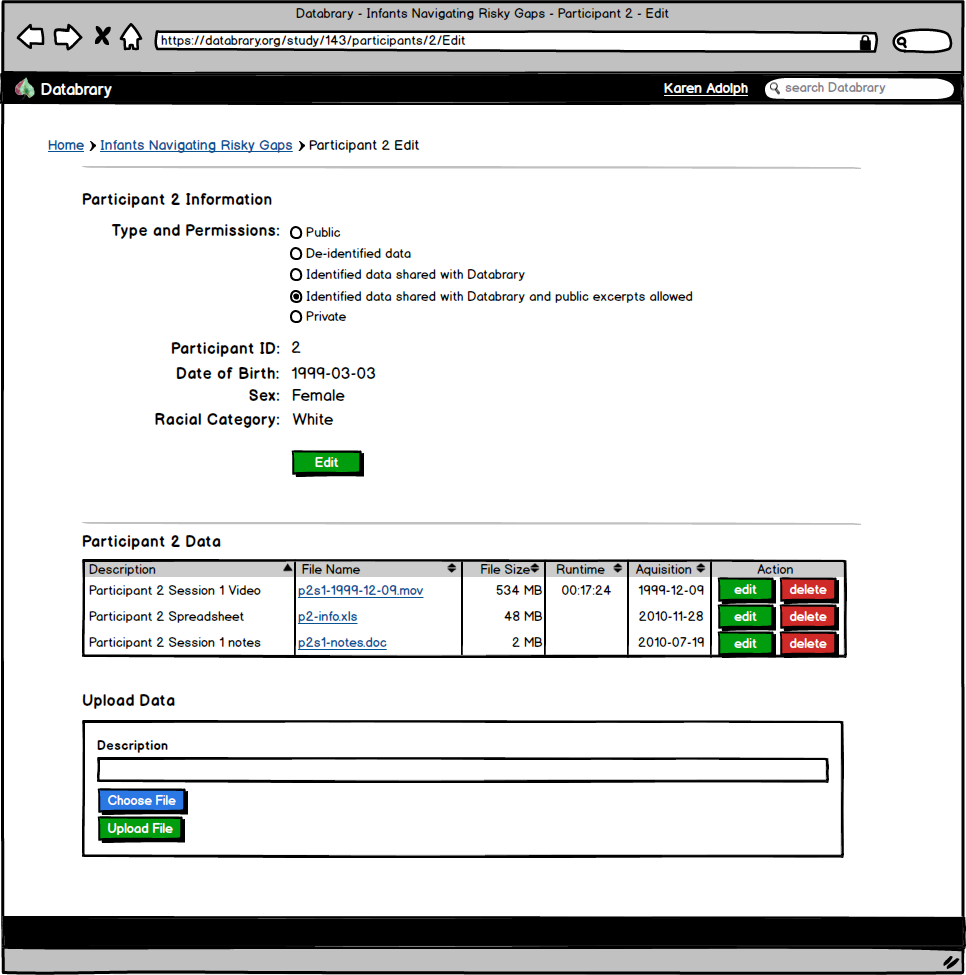
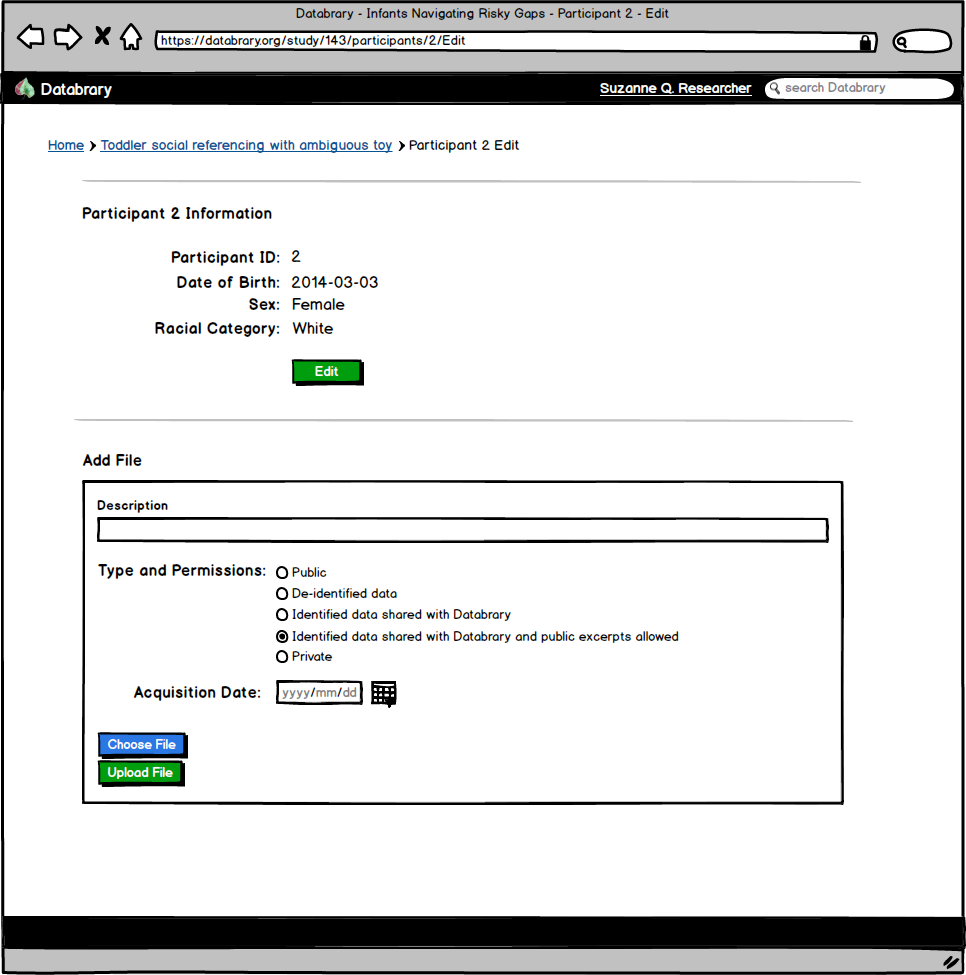
updated upload page

diff --git a/wireframe-presentation.md b/wireframe-presentation.md
@@ -75,7 +75,7 @@ UPDATED: Study page (Public View)
 - [x]: reduce # video file to 1 each participant, data files to 2
 - [x]: change to "Download citation in this format: "
 - [x] we can drop these and focus on authorized view if these are hard to maintain separately : 
-- [ ] probably documents/data will be links but since we don't have pages for them don't bother
+- [x] probably documents/data will be links but since we don't have pages for them don't bother
 
 UPDATED: Study page (Authorized View)
 
@@ -144,7 +144,7 @@ NEEDS UPDATES : Dashboard (post login)
 - search
 - user authorization
 - [image: investigator dashboard](./investigator-dashboard.png)
-- [ ]: please provide links to stills. following link above I found two images that might be useful for "Adolph walking" search results.  Also, need stills for dashboard.
+- [x]: please provide links to stills. following link above I found two images that might be useful for "Adolph walking" search results.  Also, need stills for dashboard.
 - [x] Change "My Databrary" buttons to "Add/Edit studies", "Authorize users" (maybe highlight this somehow to indicate pending requests?), "Edit this page"
 - [x] Change "My Activity Feeds" to "Popular on Databrary"
 
@@ -198,9 +198,9 @@ CREATED : Upload page
 - a separate page, basically like the video page with edit links and an upload/replace file field
 - [image: upload page](./study-upload-page.png)
 - [x] Move "permissions" to top, change to "Type and permissions" with options: "Public", "De-identified data", "Identified data shared with Databrary", "Identified data shared with Databrary and public excerpts allowed" (selected), "Private"
-- [ ] remove participant 2 data table
-- [ ] change "Upload Data" to "Add File"
-- [ ] move permissions down closer to upload, add acquisition date next to upload (both are logically associated with the uploaded file)
+- [x] remove participant 2 data table
+- [x] change "Upload Data" to "Add File"
+- [x] move permissions down closer to upload, add acquisition date next to upload (both are logically associated with the uploaded file)
 
 ### Access management
 
